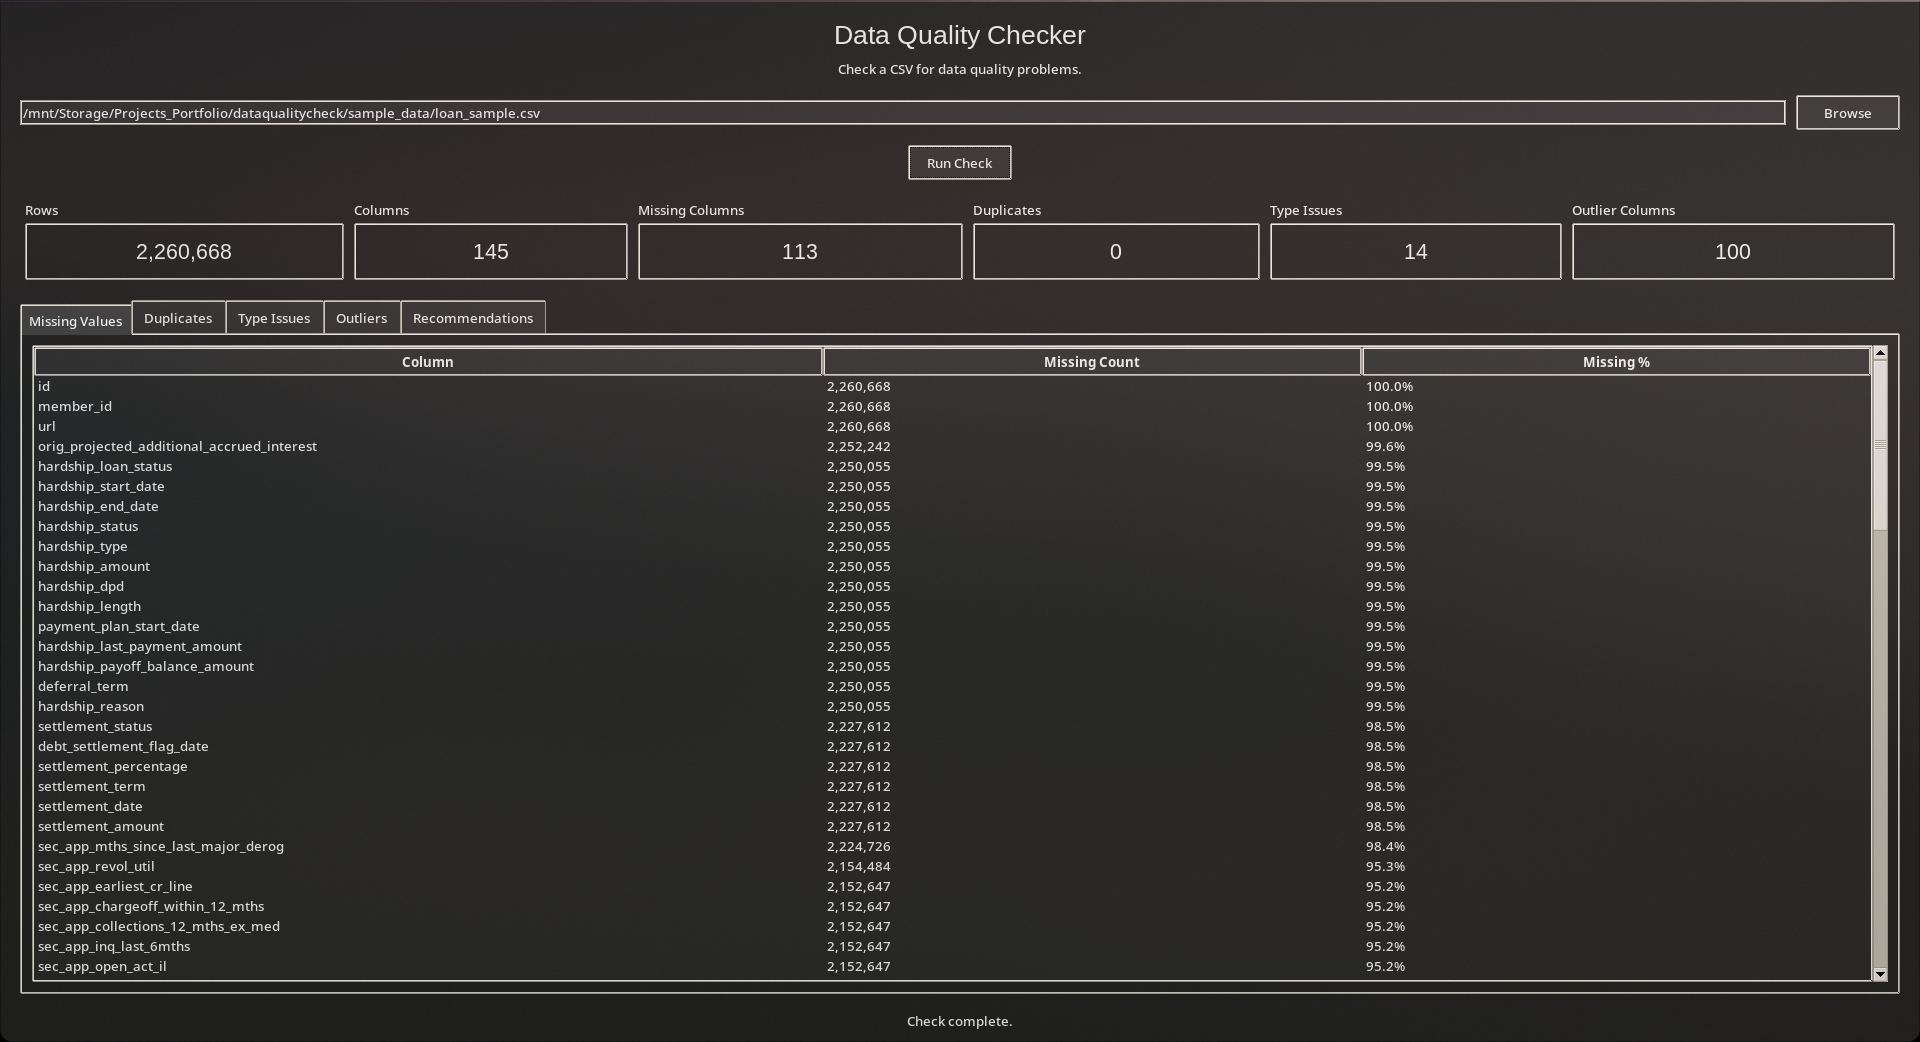
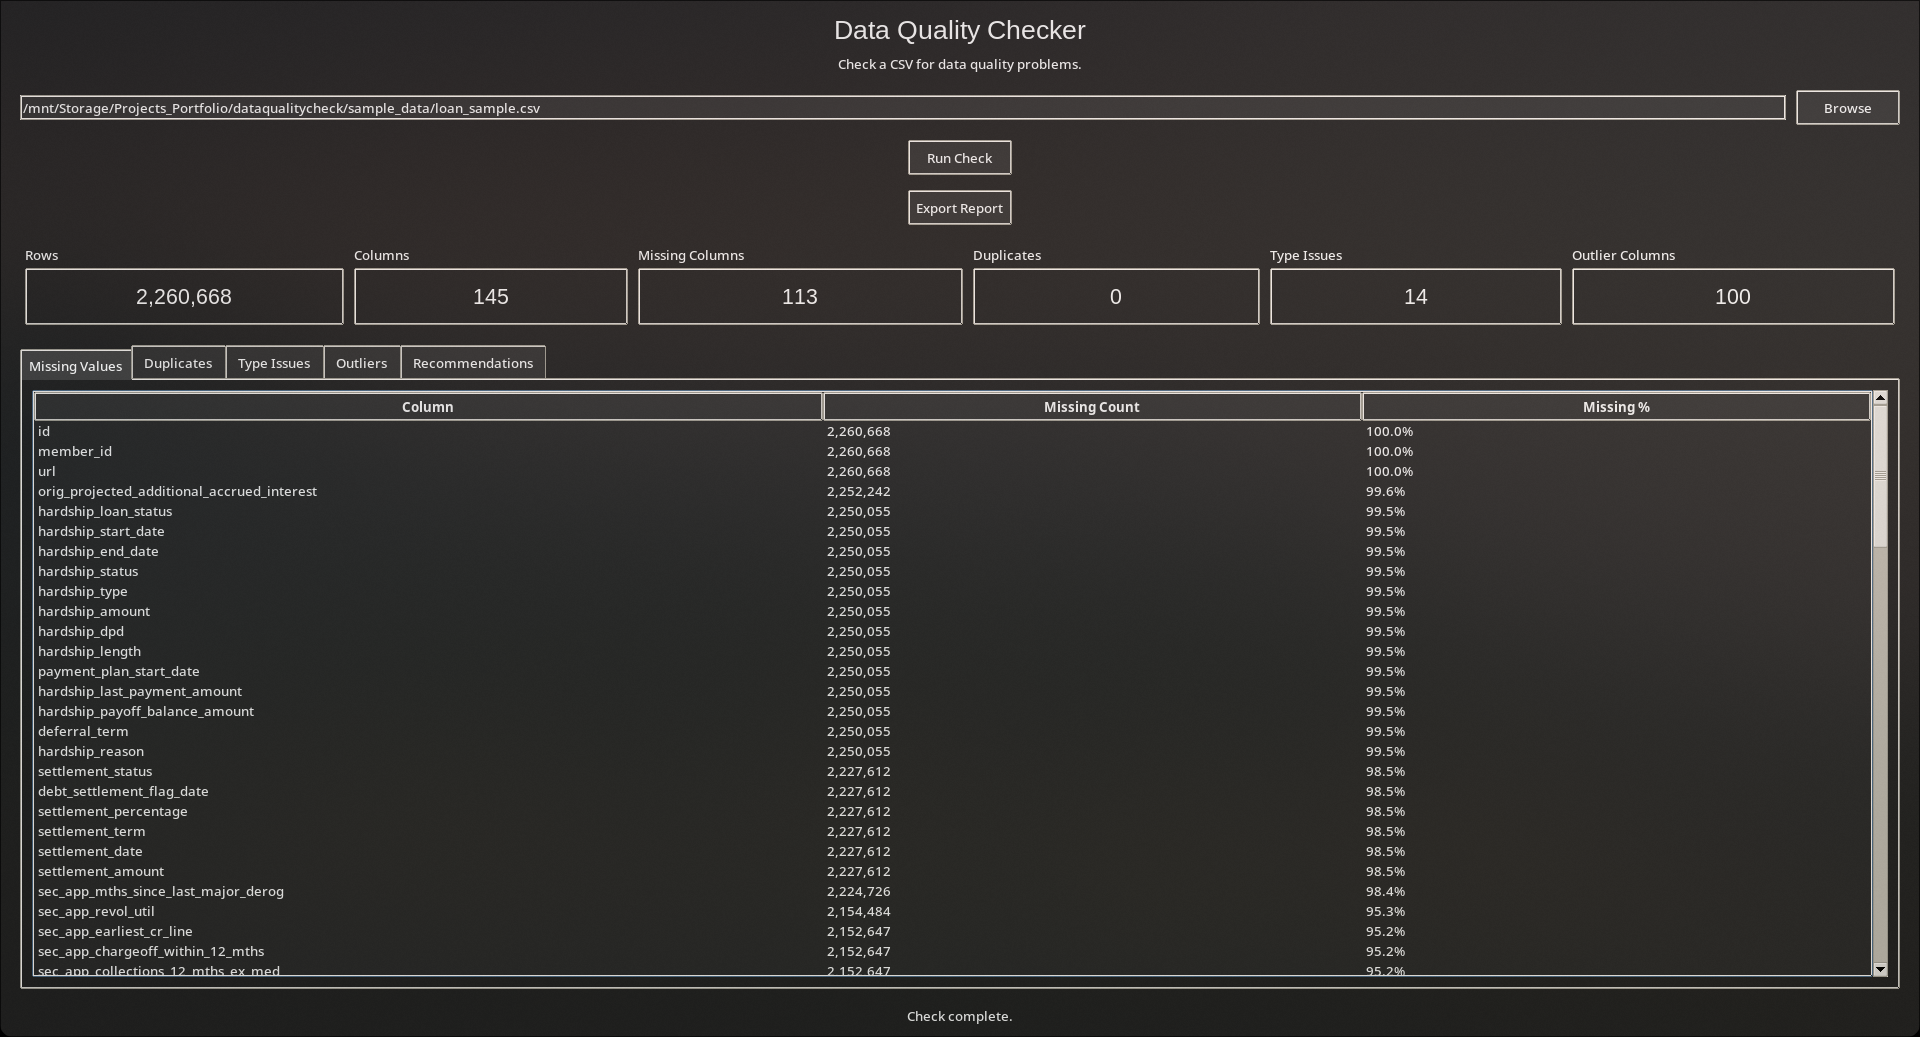
added export report button to export as a .txt file

diff --git a/dashboard.py b/dashboard.py
@@ -9,6 +9,8 @@ from dataqualitycheck import (
     check_outliers,
 )
 
+last_results = None
+
 
 def clear_table(table):
     for item in table.get_children():
@@ -226,9 +228,78 @@ def run_check():
 
         status_label.config(text="Check complete.")
 
+        global last_results
+        last_results = {
+            "filepath": filepath,
+            "df": df,
+            "missing_report": missing_report,
+            "duplicate_count": duplicate_count,
+            "duplicate_pct": duplicate_pct,
+            "type_issues": type_issues,
+            "outlier_report": outlier_report,
+            "recommendations": recommendations,
+        }
+
     except Exception as error:
         status_label.config(text="Error loading file.")
         messagebox.showerror("Error", str(error))
+
+
+def export_report():
+    if last_results is None:
+        messagebox.showwarning(
+            "Nothing to export",
+            "Run a check first, then export the report."
+        )
+        return
+
+    save_path = filedialog.asksaveasfilename(
+        title="Save report as",
+        defaultextension=".txt",
+        filetypes=[("Text files", "*.txt"), ("All files", "*.*")]
+    )
+
+    if not save_path:
+        return
+
+    r = last_results
+    lines = []
+
+    lines.append(f"Data Quality Report: {r['filepath']}")
+    lines.append(f"Rows: {len(r['df']):,} | Columns: {len(r['df'].columns):,}")
+
+    lines.append("\n--- Missing Values ---")
+    if r["missing_report"].empty:
+        lines.append("No missing values found")
+    else:
+        lines.append(r["missing_report"].to_string())
+
+    lines.append("\n--- Duplicate Rows ---")
+    lines.append(f"Fully duplicated rows: {r['duplicate_count']} ({r['duplicate_pct']:.1f}%)")
+
+    lines.append("\n--- Potential Type Issues ---")
+    if r["type_issues"]:
+        for col, issue in r["type_issues"]:
+            lines.append(f"'{col}': {issue}")
+    else:
+        lines.append("No obvious type issues detected.")
+
+    lines.append("\n--- Potential Outliers (IQR) ---")
+    if r["outlier_report"]:
+        for col, count, pct in r["outlier_report"]:
+            lines.append(f"'{col}': {count} potential outliers ({pct:.1f}%)")
+    else:
+        lines.append("No outliers detected.")
+
+    lines.append("\n--- Recommendations ---")
+    for rec in r["recommendations"]:
+        lines.append(f"- {rec}")
+
+    with open(save_path, "w", encoding="utf-8") as f:
+        f.write("\n".join(lines))
+
+    status_label.config(text=f"Report saved to {save_path}")
+    messagebox.showinfo("Export complete", f"Report saved to:\n{save_path}")
 
 
 def create_summary(parent, title):
@@ -254,114 +325,43 @@ window.minsize(750, 550)
 style = ttk.Style()
 style.theme_use("clam")
 
-style.configure(
-    "TFrame",
-    background="#202020"
-)
-
-style.configure(
-    "TLabel",
-    background="#202020",
-    foreground="#eeeeee"
-)
-
-style.configure(
-    "TLabelframe",
-    background="#202020",
-    foreground="#eeeeee"
-)
-
-style.configure(
-    "TLabelframe.Label",
-    background="#202020",
-    foreground="#eeeeee"
-)
-
-style.configure(
-    "TButton",
-    background="#303030",
-    foreground="#eeeeee",
-    borderwidth=1
-)
+style.configure("TFrame", background="#202020")
+style.configure("TLabel", background="#202020", foreground="#eeeeee")
+style.configure("TLabelframe", background="#202020", foreground="#eeeeee")
+style.configure("TLabelframe.Label", background="#202020", foreground="#eeeeee")
+style.configure("TButton", background="#303030", foreground="#eeeeee", borderwidth=1)
 
 style.map(
     "TButton",
-    background=[
-        ("active", "#404040"),
-        ("pressed", "#505050")
-    ],
-    foreground=[
-        ("active", "#ffffff")
-    ]
+    background=[("active", "#404040"), ("pressed", "#505050")],
+    foreground=[("active", "#ffffff")]
 )
 
-style.configure(
-    "TEntry",
-    fieldbackground="#303030",
-    foreground="#eeeeee"
-)
-
-style.configure(
-    "TNotebook",
-    background="#202020",
-    borderwidth=0
-)
-
-style.configure(
-    "TNotebook.Tab",
-    background="#303030",
-    foreground="#eeeeee",
-    padding=[10, 5]
-)
+style.configure("TEntry", fieldbackground="#303030", foreground="#eeeeee")
+style.configure("TNotebook", background="#202020", borderwidth=0)
+style.configure("TNotebook.Tab", background="#303030", foreground="#eeeeee", padding=[10, 5])
 
 style.map(
     "TNotebook.Tab",
-    background=[
-        ("selected", "#404040"),
-        ("active", "#383838")
-    ],
-    foreground=[
-        ("selected", "#ffffff"),
-        ("active", "#ffffff")
-    ]
+    background=[("selected", "#404040"), ("active", "#383838")],
+    foreground=[("selected", "#ffffff"), ("active", "#ffffff")]
 )
 
-style.configure(
-    "Treeview",
-    background="#282828",
-    foreground="#eeeeee",
-    fieldbackground="#282828"
-)
-
-style.configure(
-    "Treeview.Heading",
-    background="#303030",
-    foreground="#eeeeee"
-)
+style.configure("Treeview", background="#282828", foreground="#eeeeee", fieldbackground="#282828")
+style.configure("Treeview.Heading", background="#303030", foreground="#eeeeee")
 
 style.map(
     "Treeview",
-    background=[
-        ("selected", "#404040")
-    ],
-    foreground=[
-        ("selected", "#ffffff")
-    ]
+    background=[("selected", "#404040")],
+    foreground=[("selected", "#ffffff")]
 )
 
 window.configure(background="#202020")
 
-title = ttk.Label(
-    window,
-    text="Data Quality Checker",
-    font=("Arial", 20)
-)
+title = ttk.Label(window, text="Data Quality Checker", font=("Arial", 20))
 title.pack(pady=(15, 5))
 
-subtitle = ttk.Label(
-    window,
-    text="Check a CSV for data quality problems."
-)
+subtitle = ttk.Label(window, text="Check a CSV for data quality problems.")
 subtitle.pack(pady=(0, 15))
 
 file_frame = ttk.Frame(window)
@@ -369,25 +369,17 @@ file_frame.pack(fill="x", padx=20)
 
 file_path = tk.StringVar()
 
-file_entry = ttk.Entry(
-    file_frame,
-    textvariable=file_path
-)
+file_entry = ttk.Entry(file_frame, textvariable=file_path)
 file_entry.pack(side="left", fill="x", expand=True)
 
-browse_button = ttk.Button(
-    file_frame,
-    text="Browse",
-    command=browse_file
-)
+browse_button = ttk.Button(file_frame, text="Browse", command=browse_file)
 browse_button.pack(side="left", padx=(10, 0))
 
-run_button = ttk.Button(
-    window,
-    text="Run Check",
-    command=run_check
-)
+run_button = ttk.Button(window, text="Run Check", command=run_check)
 run_button.pack(pady=15)
+
+export_button = ttk.Button(window, text="Export Report", command=export_report)
+export_button.pack(pady=(0, 15))
 
 summary_frame = ttk.Frame(window)
 summary_frame.pack(fill="x", padx=20, pady=5)
@@ -400,12 +392,7 @@ type_value = create_summary(summary_frame, "Type Issues")
 outlier_value = create_summary(summary_frame, "Outlier Columns")
 
 notebook = ttk.Notebook(window)
-notebook.pack(
-    fill="both",
-    expand=True,
-    padx=20,
-    pady=15
-)
+notebook.pack(fill="both", expand=True, padx=20, pady=15)
 
 missing_tab = ttk.Frame(notebook)
 notebook.add(missing_tab, text="Missing Values")
@@ -415,13 +402,7 @@ missing_frame, missing_table = create_table(
     ("Column", "Missing Count", "Missing %"),
     (400, 150, 120)
 )
-
-missing_frame.pack(
-    fill="both",
-    expand=True,
-    padx=10,
-    pady=10
-)
+missing_frame.pack(fill="both", expand=True, padx=10, pady=10)
 
 duplicate_tab = ttk.Frame(notebook)
 notebook.add(duplicate_tab, text="Duplicates")
@@ -431,13 +412,7 @@ duplicate_frame, duplicate_table = create_table(
     ("Column / Check", "Value / Count", "Count", "% of Rows"),
     (250, 250, 100, 100)
 )
-
-duplicate_frame.pack(
-    fill="both",
-    expand=True,
-    padx=10,
-    pady=10
-)
+duplicate_frame.pack(fill="both", expand=True, padx=10, pady=10)
 
 type_tab = ttk.Frame(notebook)
 notebook.add(type_tab, text="Type Issues")
@@ -447,13 +422,7 @@ type_frame, type_table = create_table(
     ("Column", "Issue"),
     (400, 300)
 )
-
-type_frame.pack(
-    fill="both",
-    expand=True,
-    padx=10,
-    pady=10
-)
+type_frame.pack(fill="both", expand=True, padx=10, pady=10)
 
 outlier_tab = ttk.Frame(notebook)
 notebook.add(outlier_tab, text="Outliers")
@@ -463,13 +432,7 @@ outlier_frame, outlier_table = create_table(
     ("Column", "Outlier Count", "Outlier %"),
     (400, 150, 120)
 )
-
-outlier_frame.pack(
-    fill="both",
-    expand=True,
-    padx=10,
-    pady=10
-)
+outlier_frame.pack(fill="both", expand=True, padx=10, pady=10)
 
 recommendations_tab = ttk.Frame(notebook)
 notebook.add(recommendations_tab, text="Recommendations")
@@ -481,19 +444,9 @@ recommendations_list = tk.Listbox(
     fg="#eeeeee",
     selectbackground="#404040"
 )
+recommendations_list.pack(fill="both", expand=True, padx=10, pady=10)
 
-recommendations_list.pack(
-    fill="both",
-    expand=True,
-    padx=10,
-    pady=10
-)
-
-status_label = ttk.Label(
-    window,
-    text="Choose a CSV file to begin."
-)
-
+status_label = ttk.Label(window, text="Choose a CSV file to begin.")
 status_label.pack(pady=(0, 10))
 
 window.mainloop()

diff --git a/dataqualitycheck.py b/dataqualitycheck.py
@@ -189,4 +189,11 @@ if __name__ == "__main__":
 
     args = parser.parse_args()
 
+    try:
+        run_check(args.filepath)
+    except FileNotFoundError:
+        print(f"\nError: couldn't find a file at '{args.filepath}'. Check the path and try again.\n")
+    except pd.errors.EmptyDataError:
+        print(f"\nError: '{args.filepath}' appears to be empty.\n")
+
     run_check(args.filepath)

diff --git a/README.md b/README.md
@@ -30,15 +30,16 @@ This tool automates that first-20-or-so-minutes routine into a single command or
 
 ![Dashboard](screenshots/dashboard.png)
 
-## What it checks
+## What it does
 
-- Row/column counts -- a basic sanity check on load
-- Missing values -- count and percentage per column
-- Duplicate rows -- full-row duplicate detection
-- Repeated values -- common repeated values in each column
-- Type issues -- text columns that are likely meant to be numeric
-- Outliers -- flagged using the standard IQR (1.5x interquartile range) method
-- Recommendations -- simple suggestions based on the issues found
+- Row/column counts -- a basic sanity check on load.
+- Missing values -- count and percentage per column.
+- Duplicate rows -- full-row duplicate detection.
+- Repeated values -- common repeated values in each column.
+- Type issues -- text columns that are likely meant to be numeric.
+- Outliers -- flagged using the standard IQR (1.5x interquartile range) method.
+- Recommendations -- simple suggestions based on the issues found.
+- Export -- The report exports as a .txt file.
 
 ## Dashboard
 
